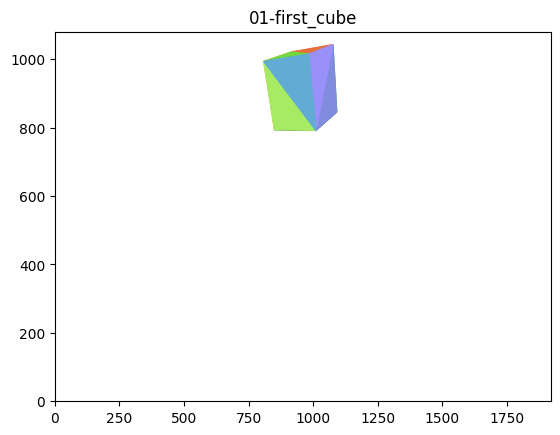
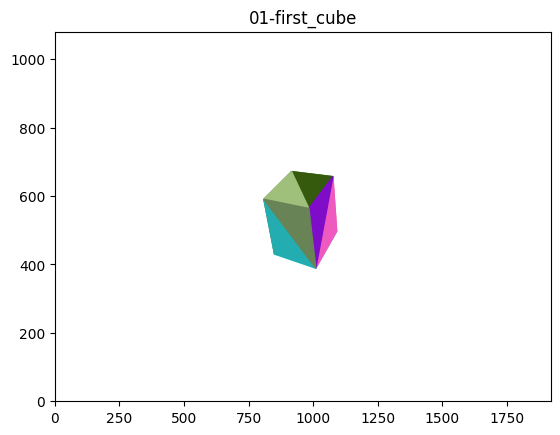
100% das cenas concluídas

Changed region(s): [[0.4554, 0.3885, 0.6071, 0.6276], [0.4554, 0.0897, 0.6071, 0.2989]]

diff --git a/entrypoints/04-intersection.py b/entrypoints/04-intersection.py
@@ -16,5 +16,23 @@ if __name__ == "__main__":
     runtime = urenderer.application.Runtime(renderer, name="04-intersection")
 
     # Crie a cena
+    cube1 = urenderer.node.Node()
+    # Desloca para cima
+    cube1.translation = np.array([0, 0.3, -5], np.float64)
+    # Rotaciona para "bugar" os triangulos
+    cube1.rotation = np.array([45, 45, 45], np.float64)
+    cube1.render_data = urenderer.geometry.polygonal_ifs.get_ifs_cube()
+    runtime.scene.add_child(cube1)
 
+    cube2 = urenderer.node.Node()
+    # Desloca para baixo
+    cube2.translation = np.array([0, -0.3, -5], np.float64)
+    # Rotaciona para "bugar" os triangulos
+    cube2.rotation = np.array([45, 45, 45], np.float64)
+    cube2.render_data = urenderer.geometry.polygonal_ifs.get_ifs_cube()
+    runtime.scene.add_child(cube2)
+    # Roda a cena
     runtime.iter(capture=True)
+
+    
+    

diff --git a/entrypoints/05-animation.py b/entrypoints/05-animation.py
@@ -34,7 +34,12 @@ if __name__ == "__main__":
     renderer = urenderer.renderer.PyplotRenderer(1920, 1080, show=False)
     runtime = urenderer.application.Runtime(renderer, name="05-animation")
 
+    # Desloca para cima
     node = urenderer.node.Node()
+    node.translation = np.array([0, 0, -5], np.float64)
+    node.rotation = np.array([90, 0, 0], np.float64)
+    node.render_data = urenderer.geometry.polygonal_ifs.get_ifs_pyramid()
+    runtime.scene.add_child(node)
     node.callbacks.append(animate_over_time)
 
     # Crie a cena